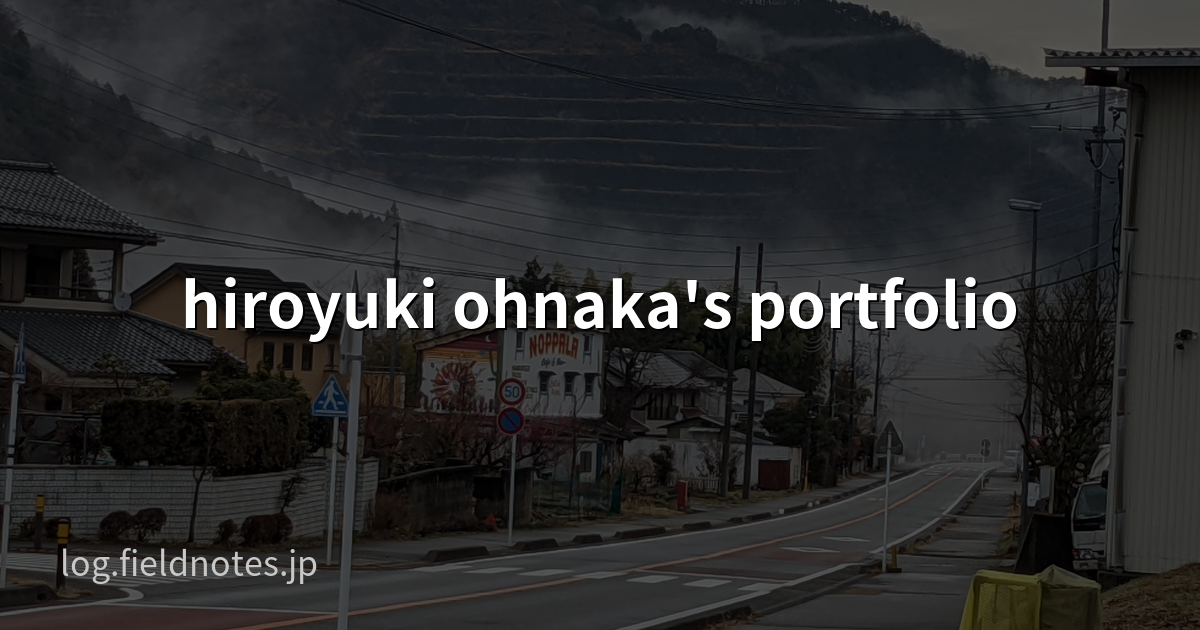
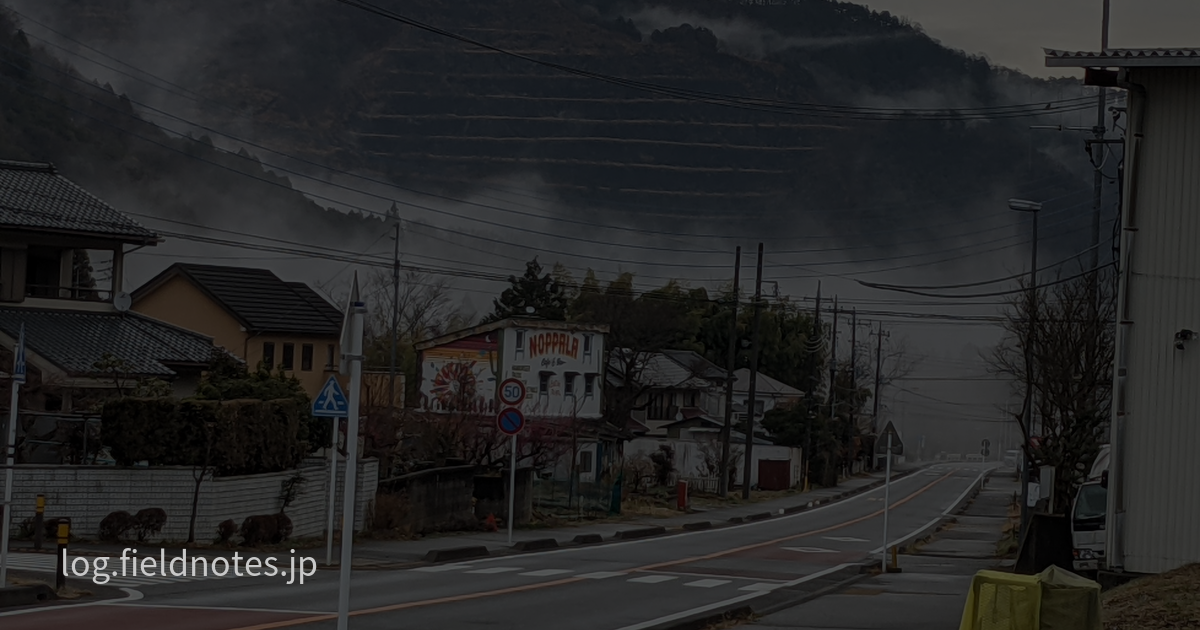
OGP画像生成スクリプトのデフォルトタイトルを空に設定し、タイトルがない場合の処理を追加

Changed region(s): [[0.1542, 0.4222, 0.8633, 0.5429]]

diff --git a/scripts/generate-ogp.py b/scripts/generate-ogp.py
@@ -90,6 +90,8 @@ def draw_text_block(
     )
 
     # Title (vertically centred, slightly above middle)
+    if not title:
+        return img
     title_font = ImageFont.truetype(FONT_BOLD, 62)
     lines = wrap_text(title, title_font, max_w, draw)
     line_h = 78
@@ -157,7 +159,7 @@ def save(img: Image.Image, out_path: Path) -> None:
 
 def gen_default() -> None:
     img = crop_center(Image.open(BASE_IMAGE).convert("RGB"), OGP_W, OGP_H)
-    img = draw_text_block(img, "hiroyuki ohnaka's portfolio")
+    img = draw_text_block(img, "")
     save(img, OUTPUT_DIR / "default.png")
     print("  default.png")
 
